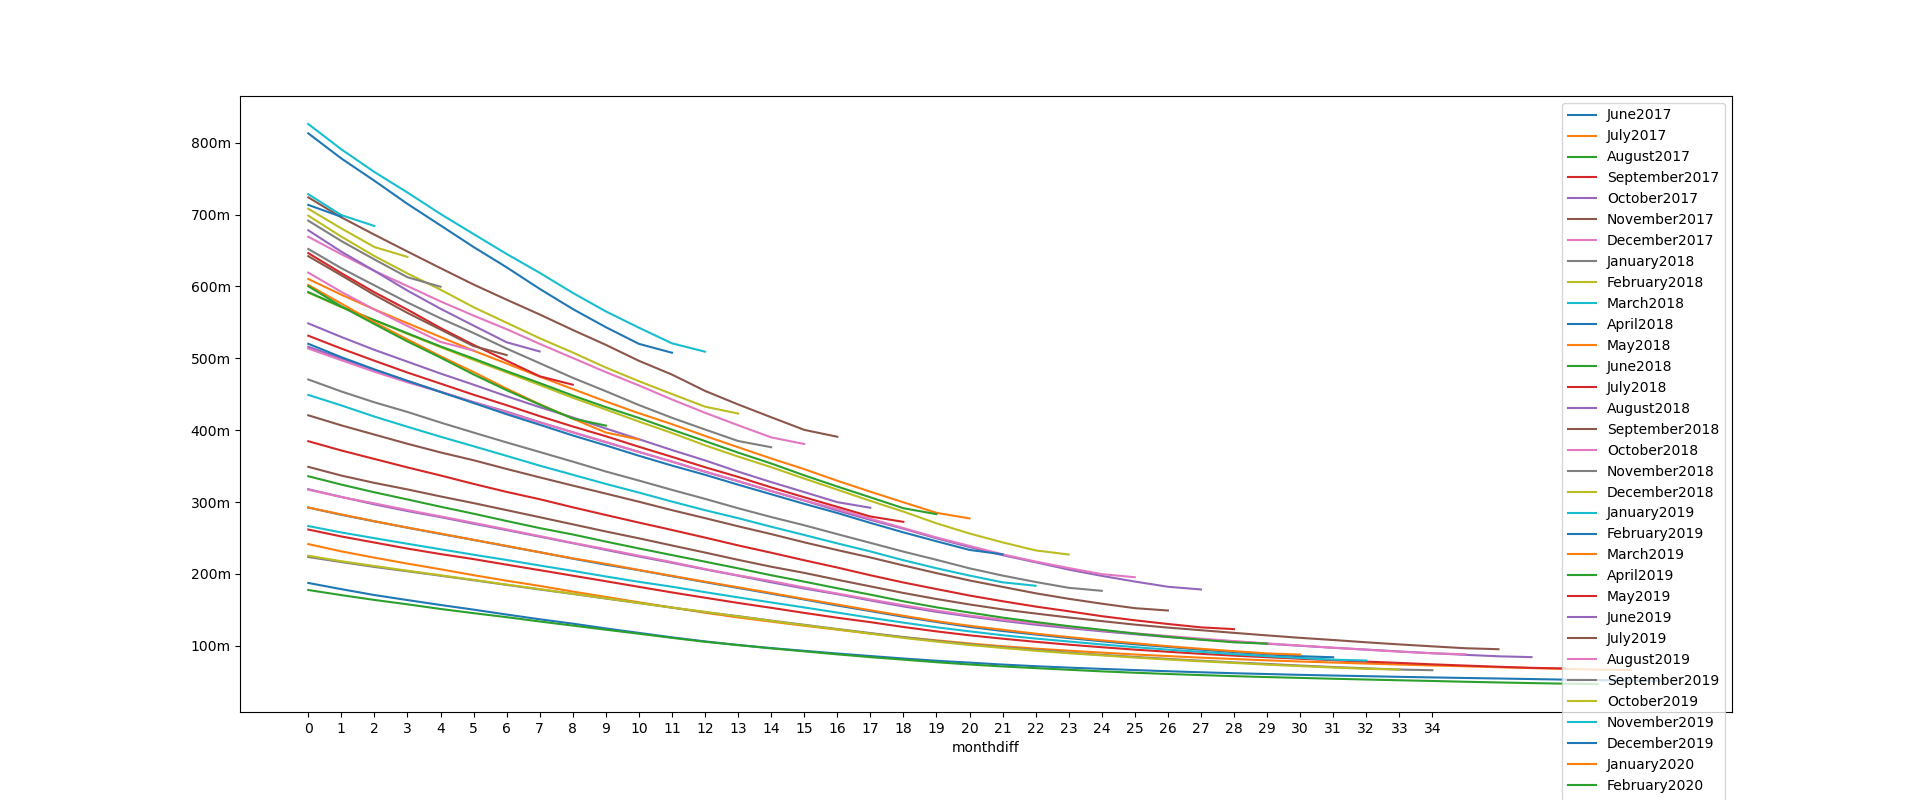
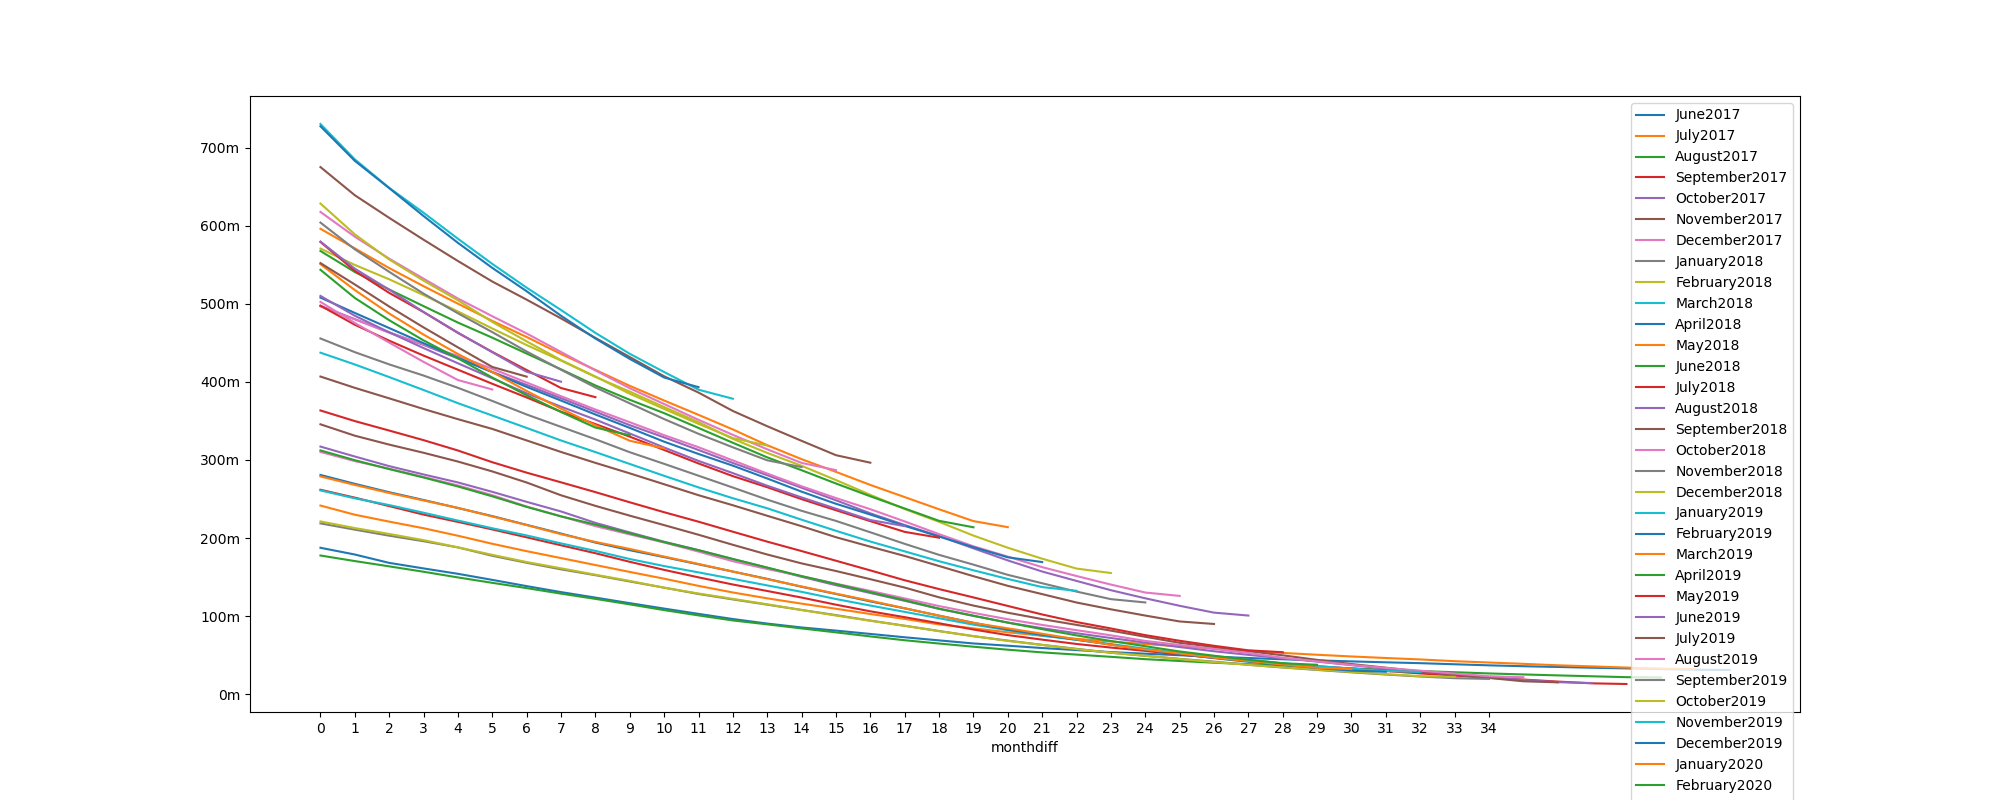
pretty output and %orig balance
added output for excel the same as AFC's
added code for % of original balance

diff --git a/afc_cohort_timeseries.py b/afc_cohort_timeseries.py
@@ -138,19 +138,28 @@ cohort_contract_sum_df.sort_index(inplace=True)
 
 full_timeseries_df = pd.merge(
     cohort_contract_sum_df['TotalContractValue'].to_frame(),
-    df4,
+    cumsum_timeseries,
     left_index=True,
     right_index=True)
 
-amort_timeseries_df = -df4.add(cohort_contract_sum_df['TotalContractValue'], axis=0)
-amort_timeseries_df.to_csv('temp7.csv')
-
 ## dafuq is happening here??? how can adding two negatives give the right answer?
-full_df = -df4.add(-cohort_contract_sum_df['TotalContractValue'], axis='index')
+amort_timeseries_df = -cumsum_timeseries.add(-cohort_contract_sum_df['TotalContractValue'], axis=0)
+amort_timeseries_df.to_csv('temp2.csv')
 
-full_df.to_csv('temp8.csv')
-df_to_plot = full_df['2017-06-01':]
+#full_df = -df4.add(-cohort_contract_sum_df['TotalContractValue'], axis='index')
+
+perc_orig_balance_timeseries_df = -cumsum_timeseries.divide(-cohort_contract_sum_df['TotalContractValue'], axis=0)
+
+
+df_to_plot = amort_timeseries_df['2017-06-01':'2020-06-01']
+contract_vals_df = cohort_contract_sum_df['2017-06-01':'2020-06-01']
 df_to_plot.index = df_to_plot.index.month_name() + df_to_plot.index.year.astype('str')
 ax = df_to_plot.T.loc[0:].plot(xticks=range(35), figsize=(20,8))
 ax.yaxis.set_major_formatter(ticker.FuncFormatter(lambda x, pos: '{:,.0f}'.format(x/1000000) + 'm'))
 plt.savefig('amortization line chart.png')
+
+contract_vals_df.index = contract_vals_df.index.month_name() + \
+    contract_vals_df.index.year.astype('str')
+pd.concat(
+    [contract_vals_df['TotalContractValue'], df_to_plot.loc[:,0:42], ], axis=1,
+          ).to_csv('Graph_Amort_MW.csv')
